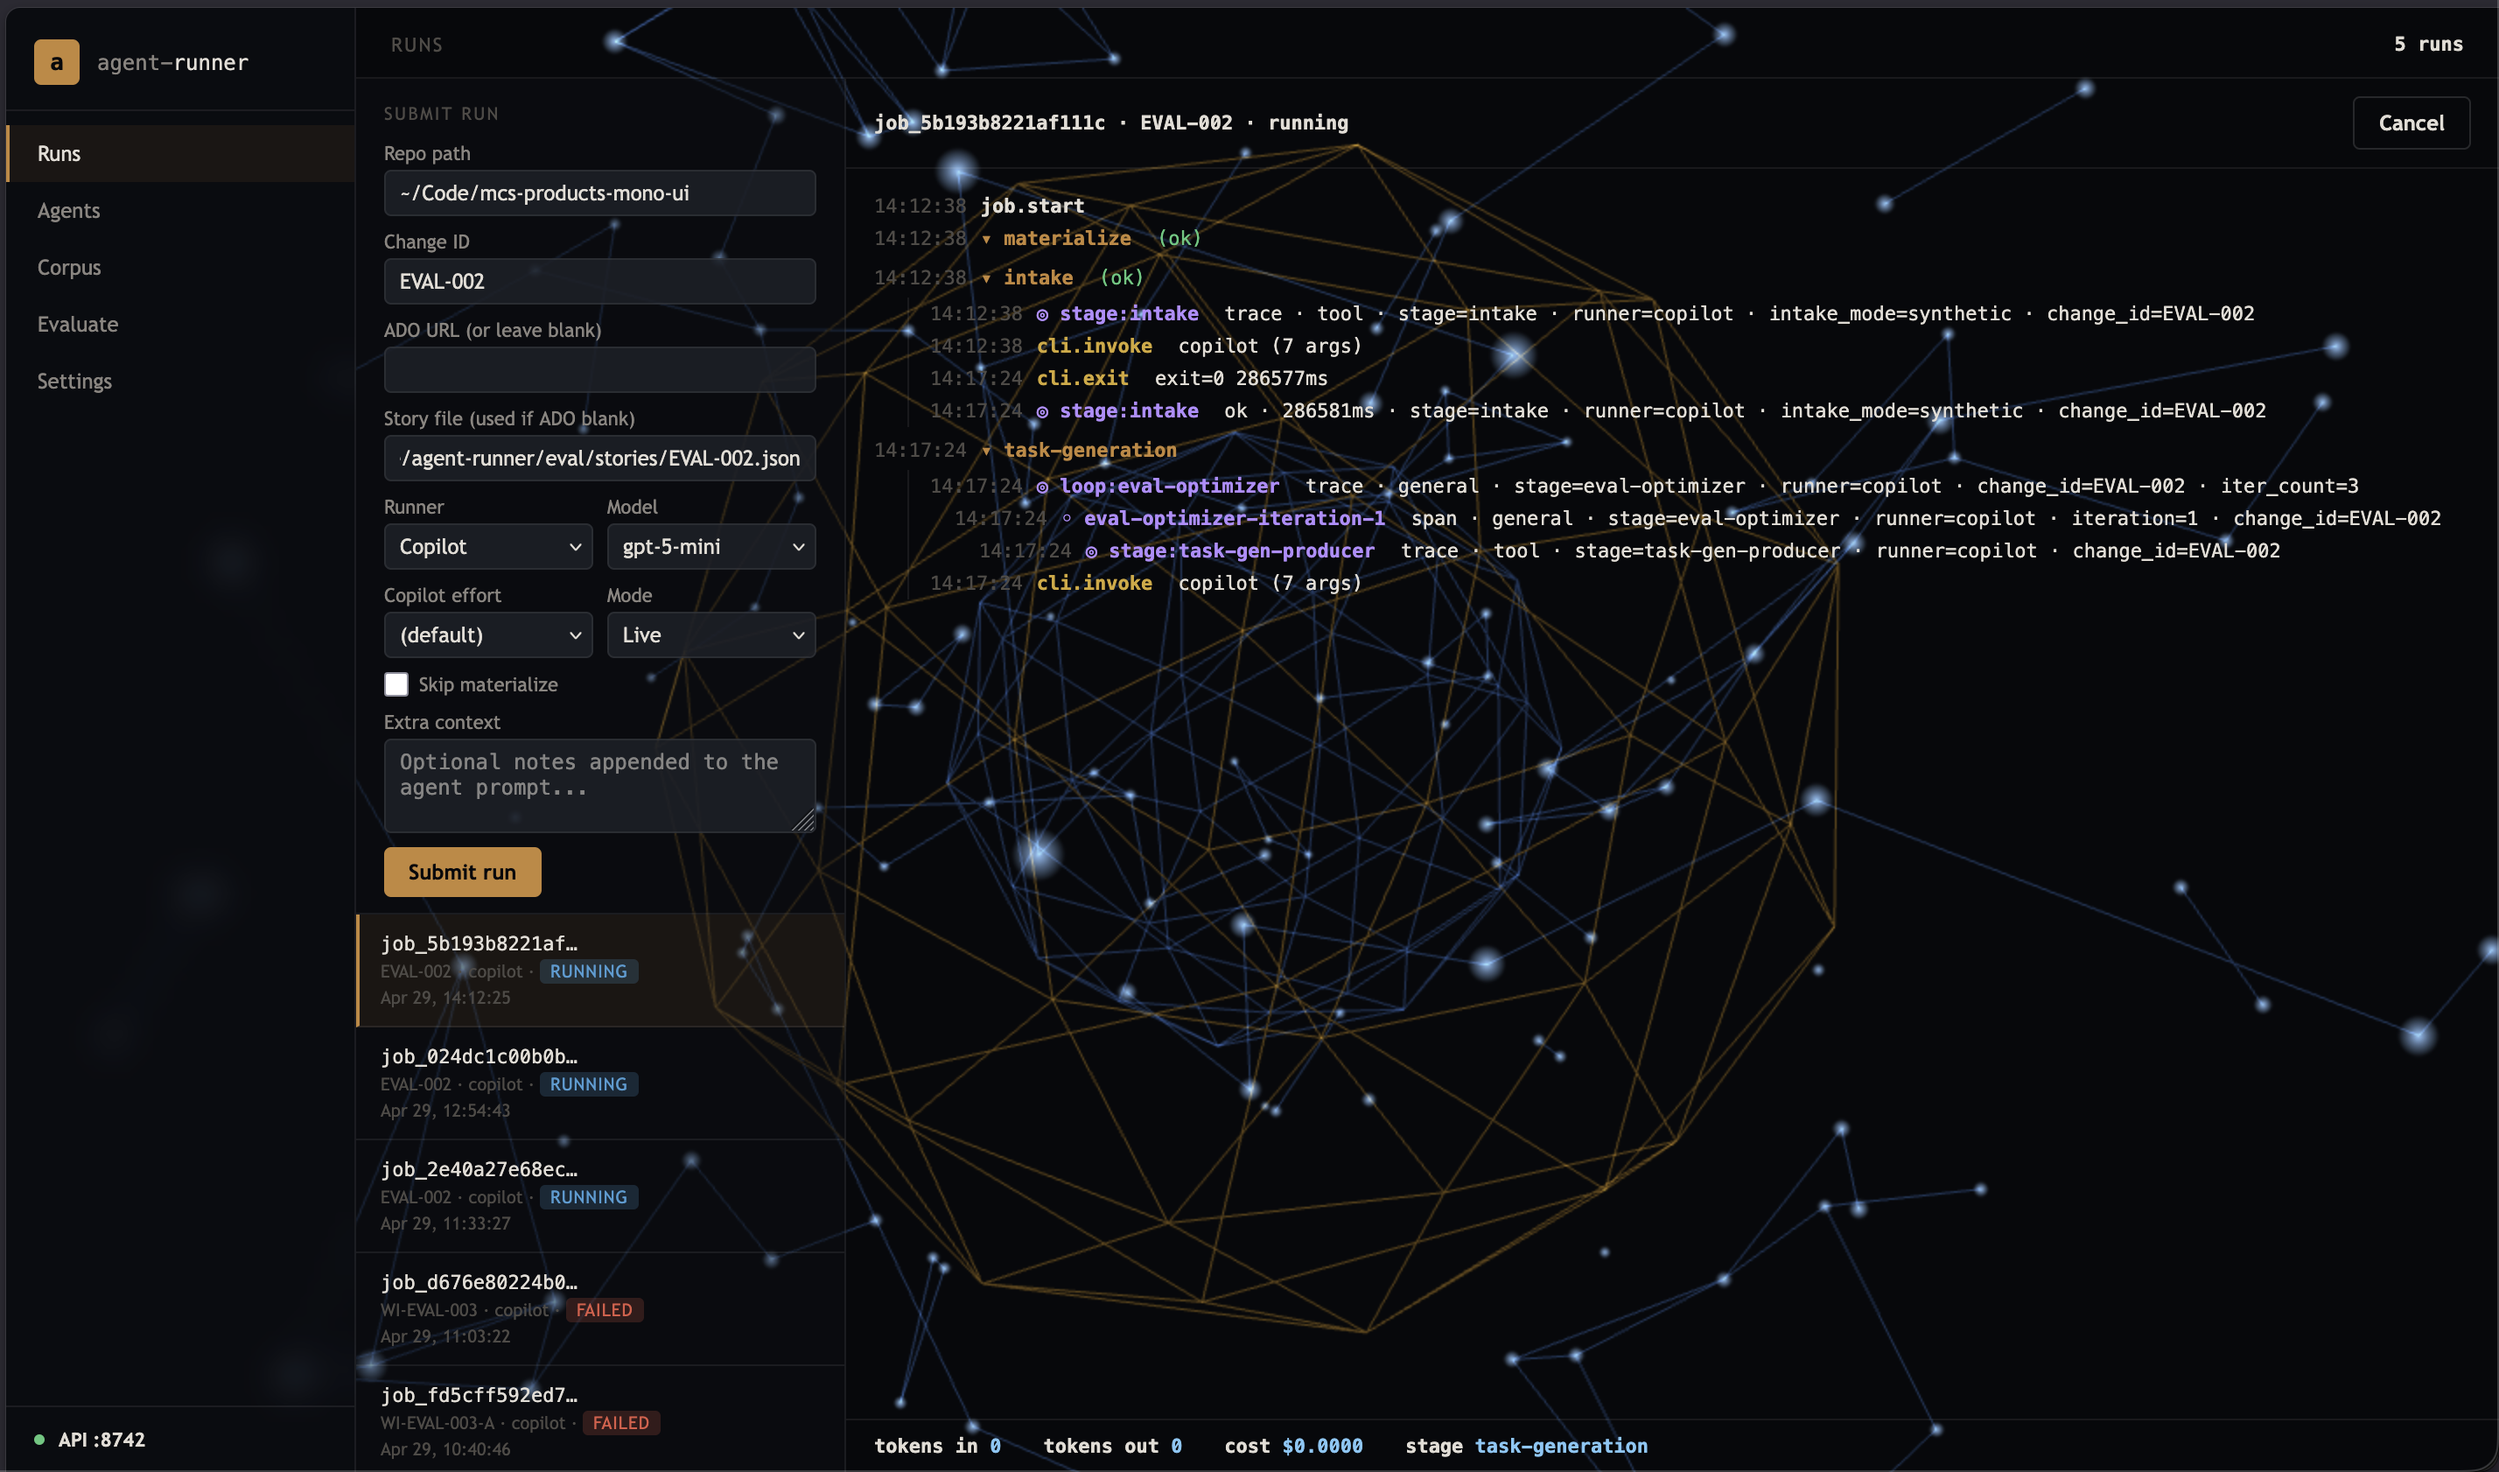
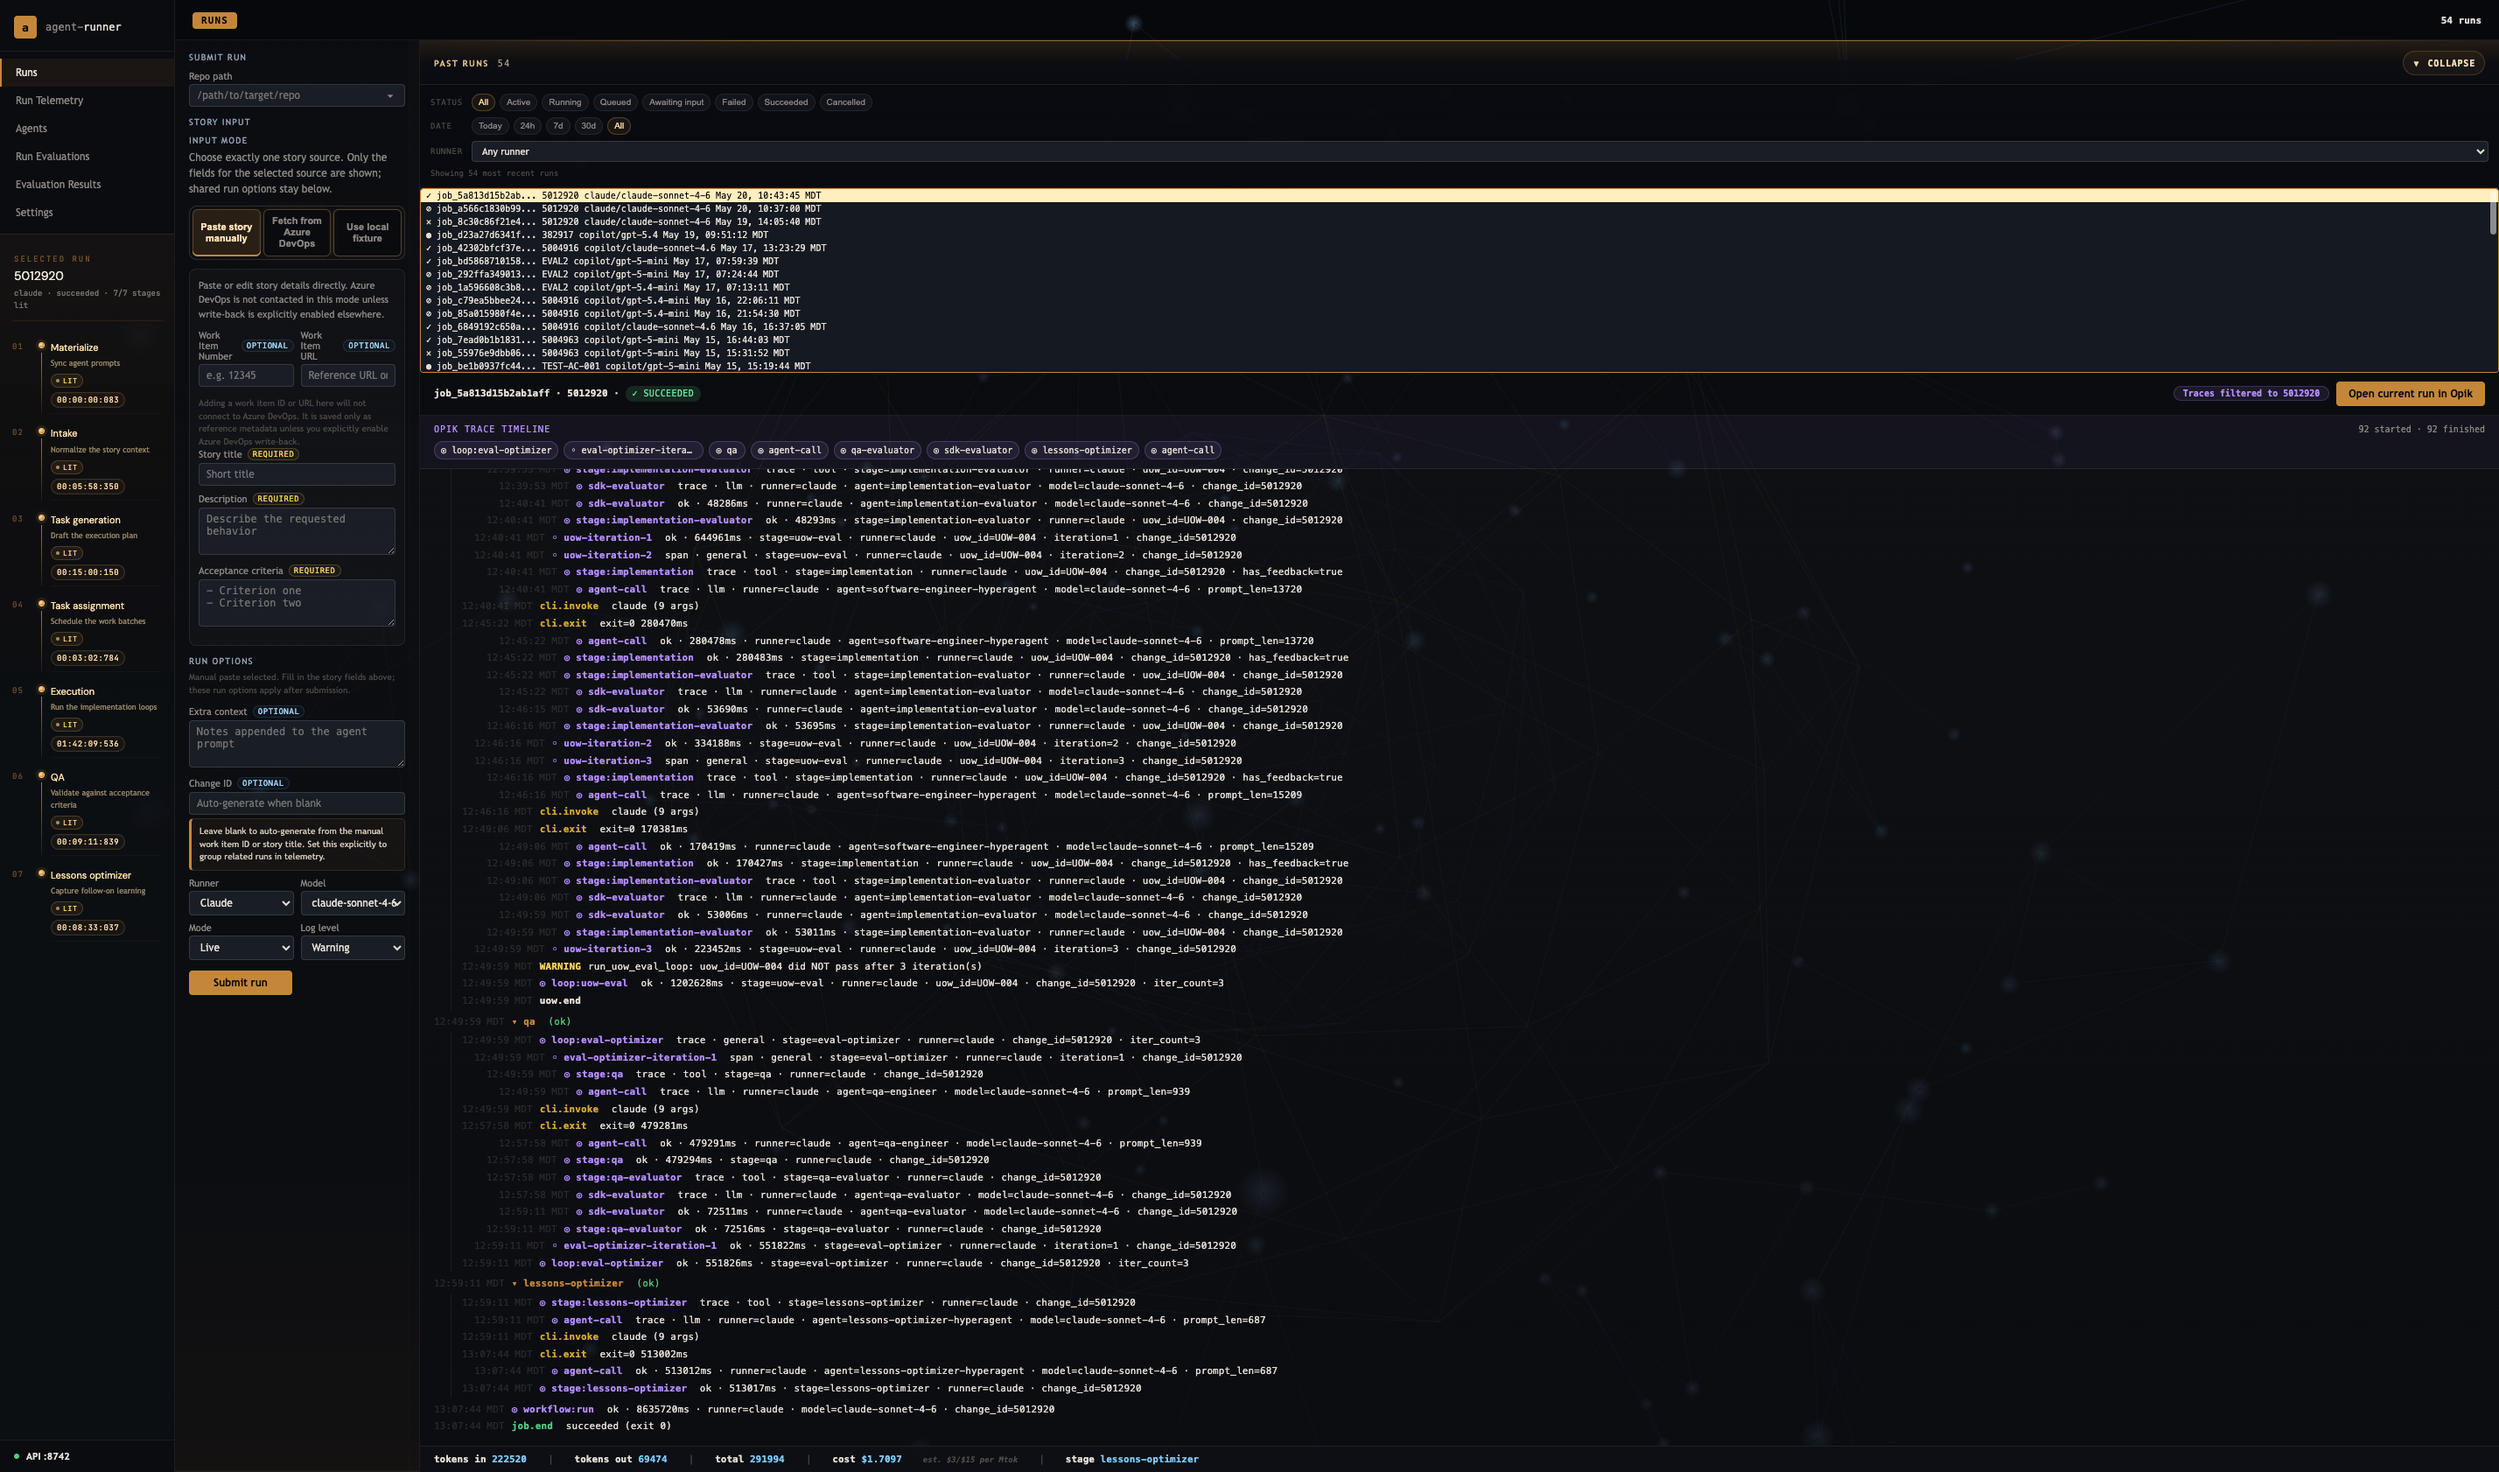
Update README screenshots

diff --git a/README.md b/README.md
@@ -11,9 +11,9 @@ materialize → intake → task-generation → task-assignment → execution ⟳
 
 The `materialize` stage is a preflight stage. It verifies runner assets by default and refreshes generated runner assets only when the operator explicitly passes `--materialize`. Execution and QA use evaluator loops: a producer agent writes an artifact, an evaluator scores it, and evaluator feedback is injected into the next iteration unless the evaluator returns `PASS`. The historical lessons optimizer is disabled.
 
-| Local Agent Workbench UI | Opik observability command center |
-|---|---|
-| ![Agent Workbench Runs view showing a live multi-stage workflow stream](docs/assets/agent-runner-runs.png) | ![Opik project insights dashboard for agent-workbench traces](docs/assets/opik-insights.png) |
+| Runs | Run Telemetry | Opik observability |
+|---|---|---|
+| ![Agent Workbench Runs page showing run submission, run history, and a selected workflow trace timeline](docs/assets/agent-runner-runs.png) | ![Agent Workbench Run Telemetry page showing run filters, KPI cards, and trend charts](docs/assets/agent-runner-run-telemetry.png) | ![Opik project insights dashboard for agent-workbench traces](docs/assets/opik-insights.png) |
 
 > The repo is named `agent-workbench`, while some runtime paths and UI labels still use the older `agent-runner` name, such as `~/.agent-runner/` and the browser title.
 
